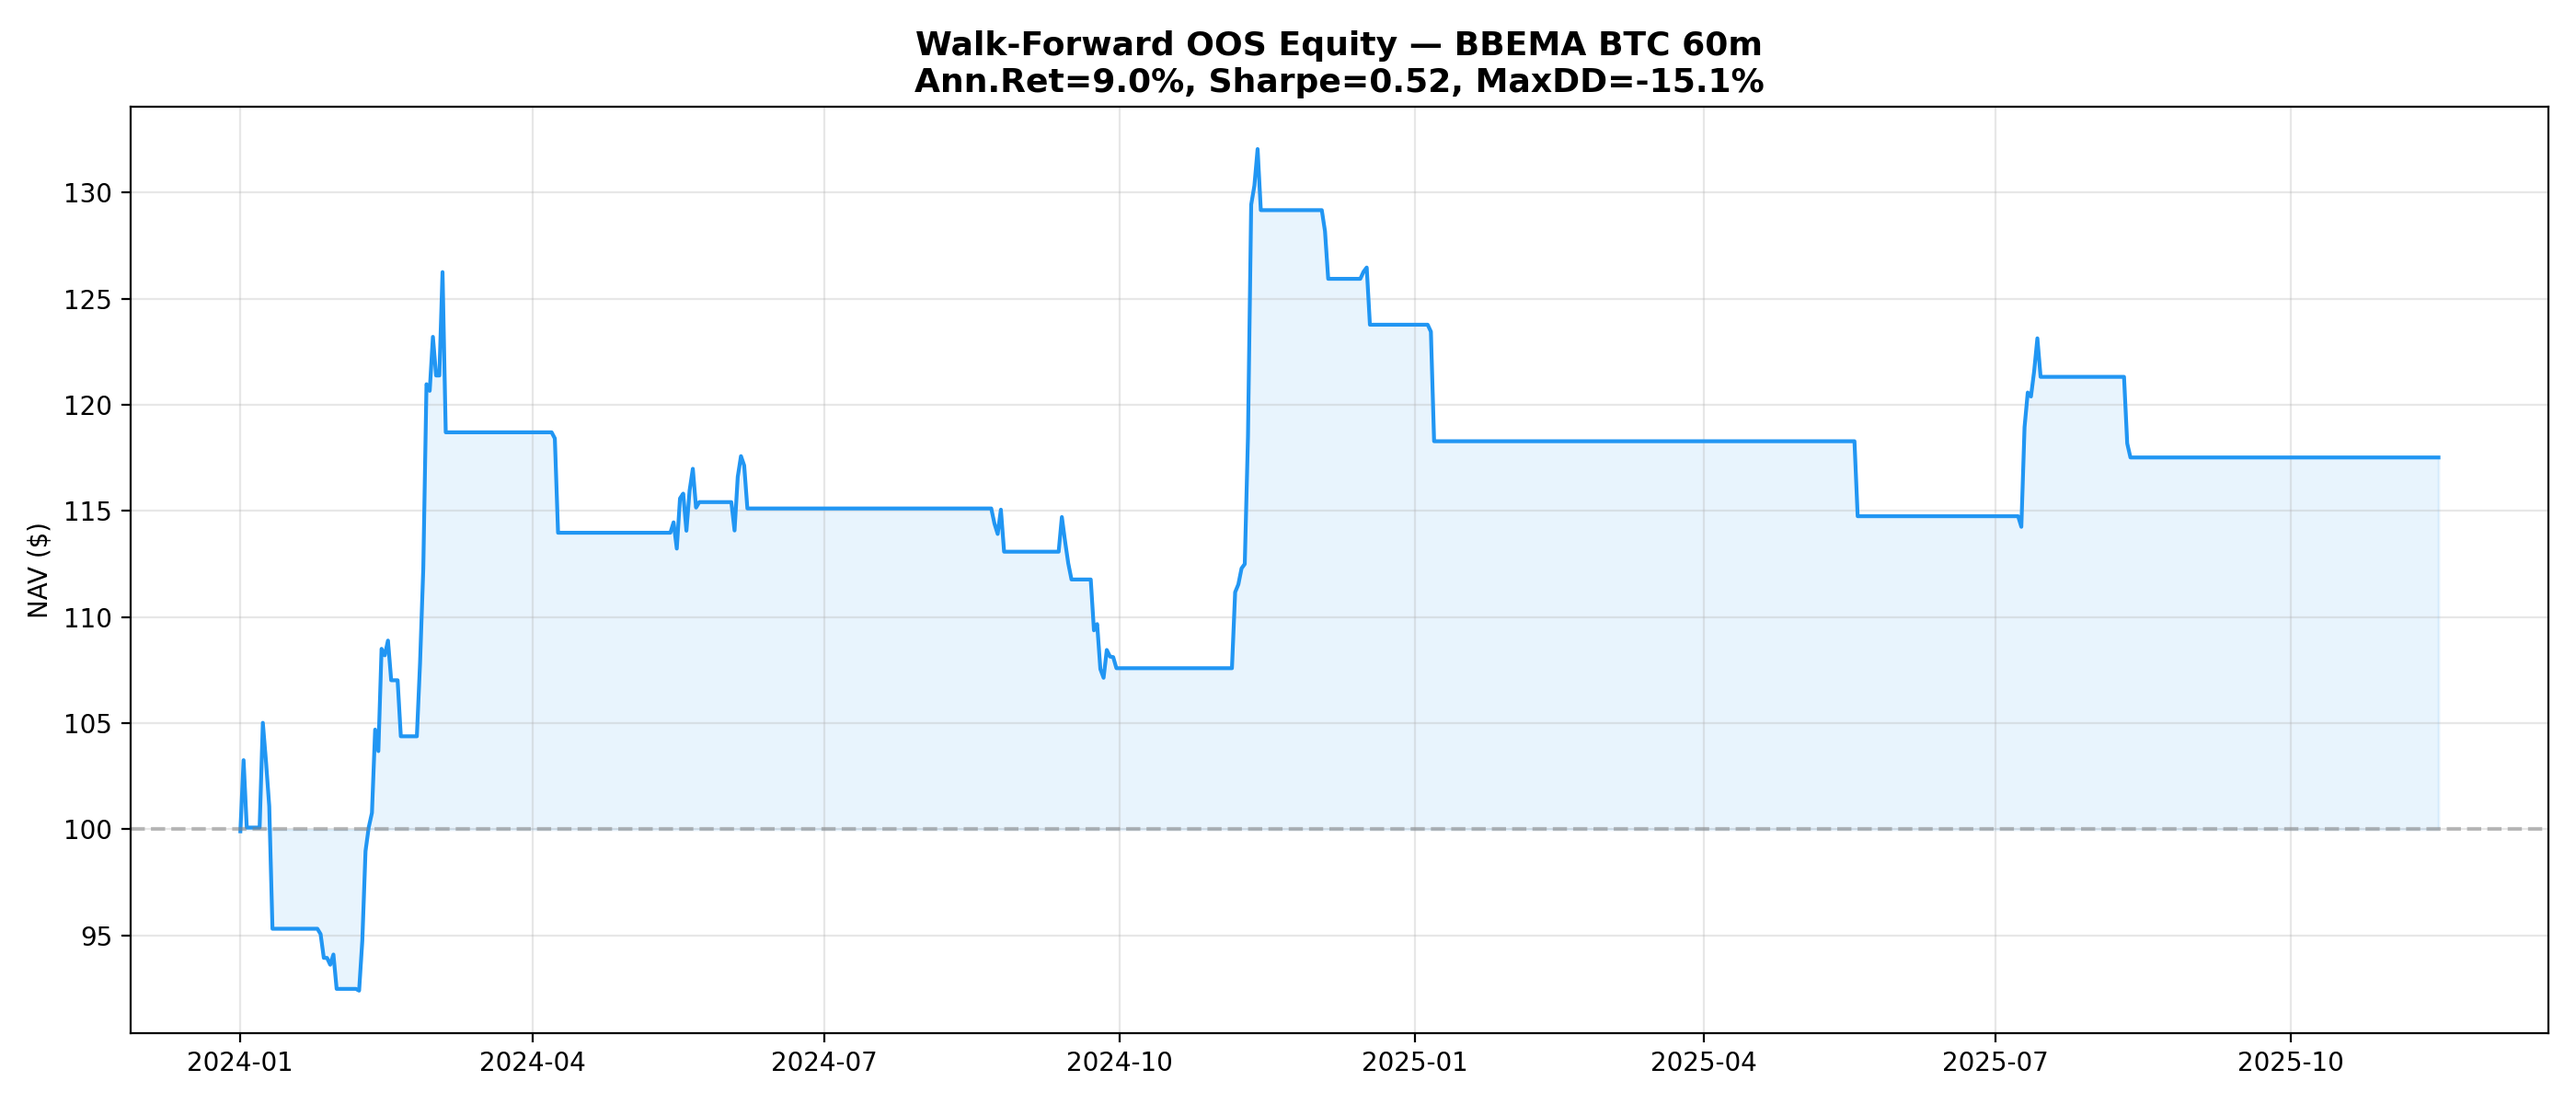
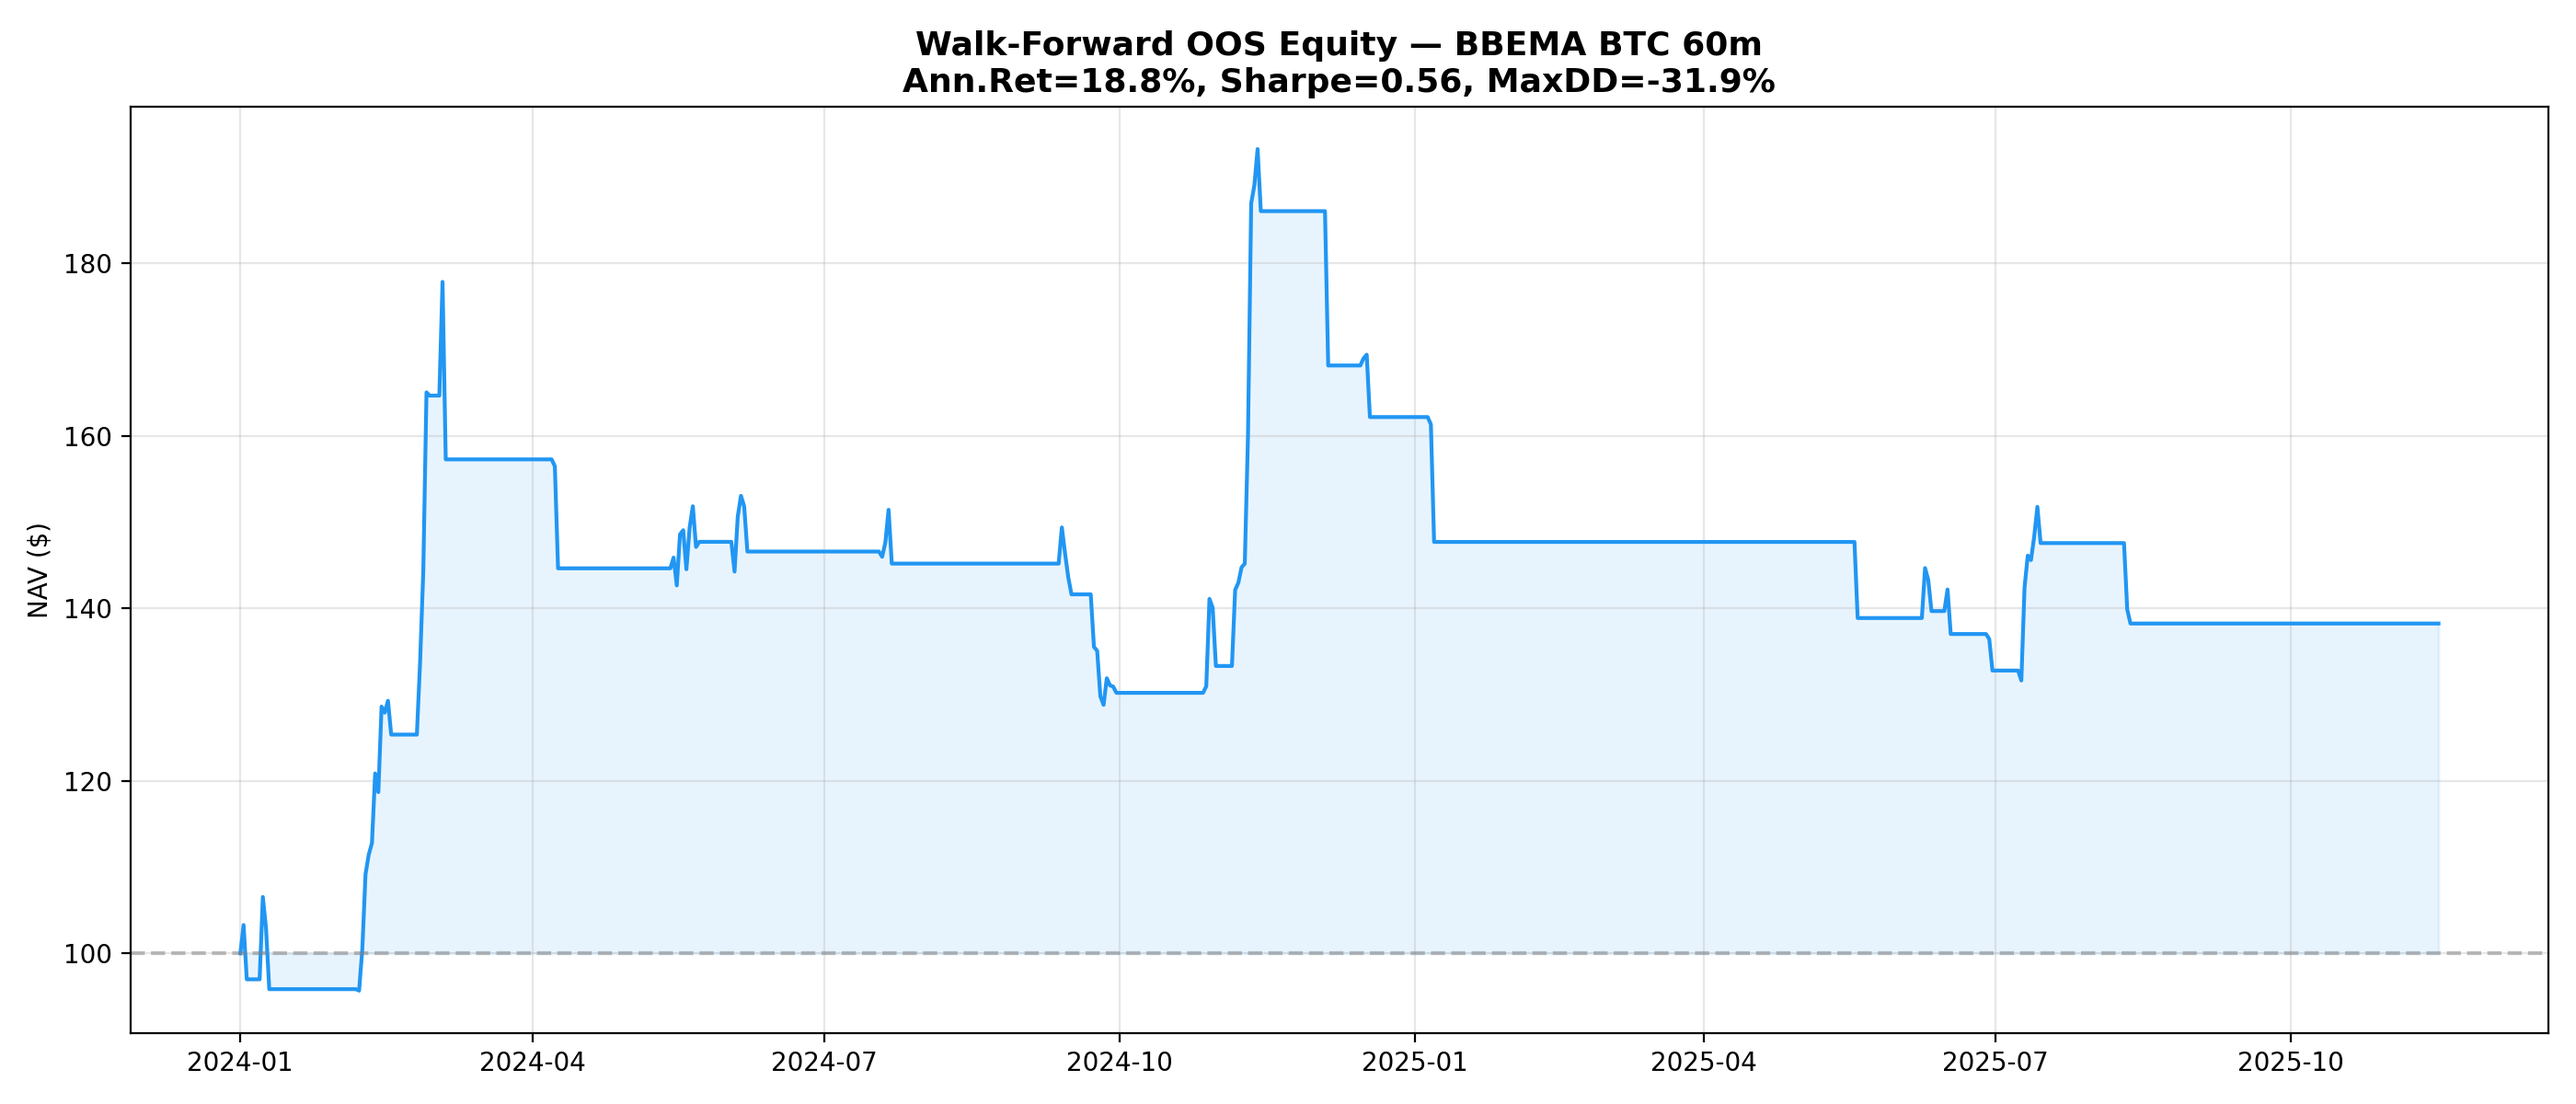
Update walk-forward to 2x leverage
WF OOS results with 2x: +38.2% total, Sharpe 0.56, Max DD -31.9%
Updated PDF and all related files

diff --git a/walk_forward_analysis.py b/walk_forward_analysis.py
@@ -31,6 +31,9 @@ os.makedirs(OUT_DIR, exist_ok=True)
 ASSET = 'BTC'
 TIMEFRAME = '60m'
 TCOST = 0.0016
+LEVERAGE = 2
+FUNDING_PER_8H = 0.0001
+SL_PCT = 0.15
 START_YM = '2024-01'   # WF starts here (2023 = pure IS warm-up)
 N_TRIALS = 80
 BARS_PER_YEAR = 365 * 24
@@ -69,41 +72,69 @@ def generate_signals_on_df(df, ema_period, bb_window, bb_dev):
 
 
 def run_fast_on_slice(df_full, ema_period, bb_window, bb_dev, tcost, initial_nav=100,
-                      backtest_start=None, backtest_end=None):
+                      backtest_start=None, backtest_end=None,
+                      leverage=LEVERAGE, sl_pct=SL_PCT, funding_per_8h=FUNDING_PER_8H):
     """
-    Compute indicators on full df (for warmup), then backtest only the
-    [backtest_start:backtest_end] slice. If both are None, backtest entire df.
+    Compute indicators on full df (for warmup), then leveraged backtest only the
+    [backtest_start:backtest_end] slice.
     """
     df = generate_signals_on_df(df_full, ema_period, bb_window, bb_dev)
 
-    # Slice to backtest window
     if backtest_start is not None or backtest_end is not None:
         df = df.loc[backtest_start:backtest_end].copy()
 
-    close = df['close'].to_numpy(dtype=np.float64)
-    signal = df['signal'].to_numpy(dtype=np.float64)
-    n = close.shape[0]
+    close = df['close'].values
+    signal = df['signal'].values
+    n = len(close)
     if n == 0:
         return pd.Series(dtype=float), pd.DataFrame()
 
-    tp_mult = 1 + 1.0   # TP 100% = no cap
-    sl_mult = 1 - 0.15   # SL 15%
+    nav = np.zeros(n)
+    nav[0] = initial_nav
+    cur_nav = initial_nav
+    in_pos = False
+    entry_px = 0.0
+    qty = 0.0
+    bars_in = 0
+    trades = []
 
-    qty, trade, pnl_raw, tcost_arr, pnl_tcost, nav = _bt_kernel_singlepos_stepwise(
-        close, signal, tp_mult, sl_mult, 1000000, tcost, initial_nav, n - 1
-    )
+    for i in range(1, n):
+        px = close[i]
+        prev_px = close[i - 1]
+
+        if in_pos:
+            pnl = (px - prev_px) * qty
+            bars_in += 1
+            funding = abs(qty) * px * funding_per_8h if bars_in % 8 == 0 else 0.0
+            cur_nav += pnl - funding
+
+            if cur_nav <= 0:
+                cur_nav = 0.001
+                in_pos = False
+                trades.append({'pnl_tcost': -initial_nav})
+                nav[i] = cur_nav
+                continue
+
+            pos_ret = (px - entry_px) / entry_px
+            if pos_ret <= -sl_pct or signal[i] == 0:
+                tc = abs(qty) * px * tcost
+                cur_nav -= tc
+                trades.append({'pnl_tcost': (px - entry_px) * qty - tc})
+                in_pos = False
+                qty = 0.0
+        else:
+            if signal[i] == 1 and signal[i-1] == 0 and cur_nav > 1:
+                entry_px = px
+                qty = (cur_nav * leverage) / px
+                tc = abs(qty) * px * tcost
+                cur_nav -= tc
+                in_pos = True
+                bars_in = 0
+
+        nav[i] = cur_nav
 
     nav_series = pd.Series(nav, index=df.index)
-
-    # Reconstruct trades
-    df_out = df.copy()
-    df_out['trade'] = trade
-    try:
-        trades_df = _reconstruct_trades_from_series(df_out, df_out['trade'], df_out['close'],
-                                                     tcost_rate=tcost, tp_mult=tp_mult, sl_mult=sl_mult)
-    except:
-        trades_df = pd.DataFrame()
-
+    trades_df = pd.DataFrame(trades) if trades else pd.DataFrame()
     return nav_series, trades_df
 
 

diff --git a/generate_pdf.py b/generate_pdf.py
@@ -307,15 +307,16 @@ def build():
     pdf.tbl(
         ['', 'Full Backtest (IS)', 'Walk-Forward (OOS)'],
         [
-            ['Total Return (1x)', '+160.0%', '+17.5%'],
-            ['Sharpe (1x)', '1.78', '0.52'],
-            ['Max DD (1x)', '-12.3%', '-15.1%'],
+            ['Total Return', '+422.0%', '+38.2%'],
+            ['Ann. Return', '77.7%', '18.8%'],
+            ['Sharpe', '1.82', '0.56'],
+            ['Max DD', '-24.6%', '-31.9%'],
         ],
         cw=[40, 75, 75]
     )
     pdf.txt(
-        'IS-to-OOS decay (1.78 -> 0.52) is typical. Strategy remains profitable OOS, confirming '
-        'edge is not purely in-sample. OOS params converge to same region as full-sample.'
+        'IS-to-OOS Sharpe decay (1.82 -> 0.56) is typical. Strategy remains profitable OOS (+38.2% '
+        'total over 23 months with 2x leverage). OOS params converge to same region as full-sample.'
     )
 
     # Critique
@@ -336,7 +337,7 @@ def build():
     pdf.blt('Small sample: 67 trades over 2.9 years. Profitability driven by ~5 large winners. Removing best '
             '2-3 trades would substantially reduce returns.')
     pdf.blt('Concentration: 200% notional in single BTC position. Black swan events amplified by leverage.')
-    pdf.blt('WF OOS Sharpe (0.52 at 1x) below IS (1.78), suggesting part of the edge may not persist.')
+    pdf.blt('WF OOS Sharpe (0.56) below IS (1.82), suggesting part of the edge may not persist.')
 
     pdf.ln(2)
     pdf.set_font('Helvetica', 'I', 6.5)
